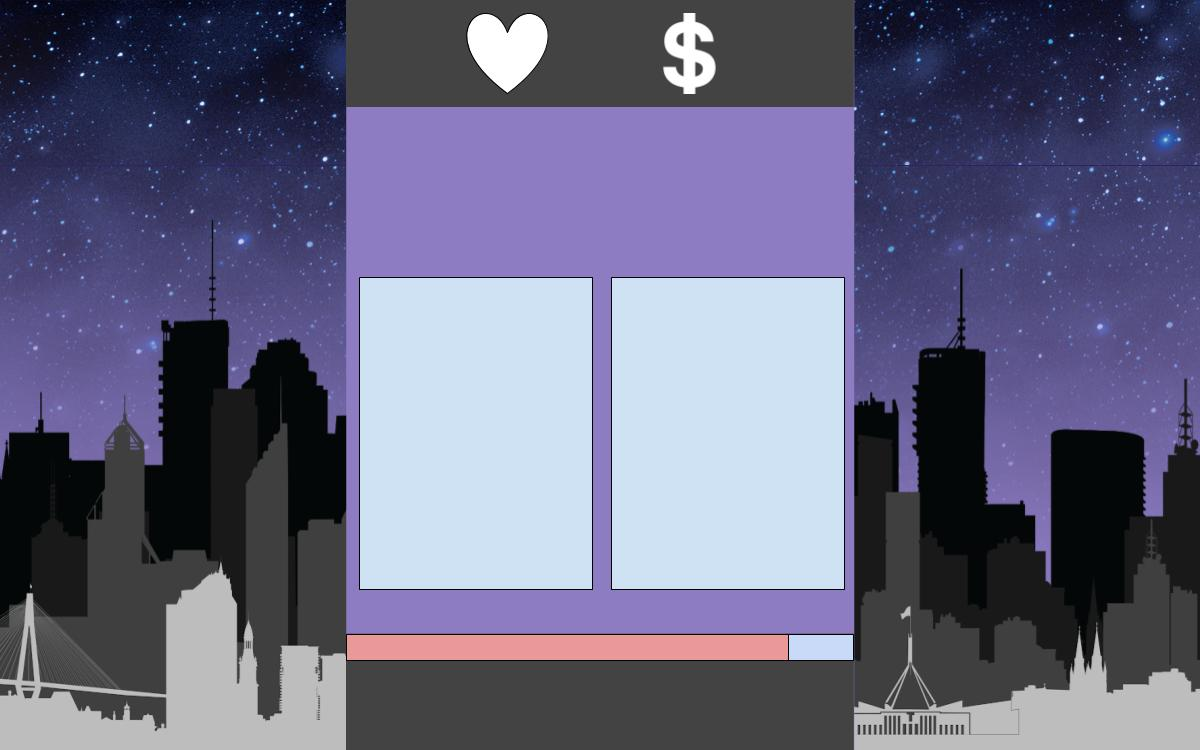
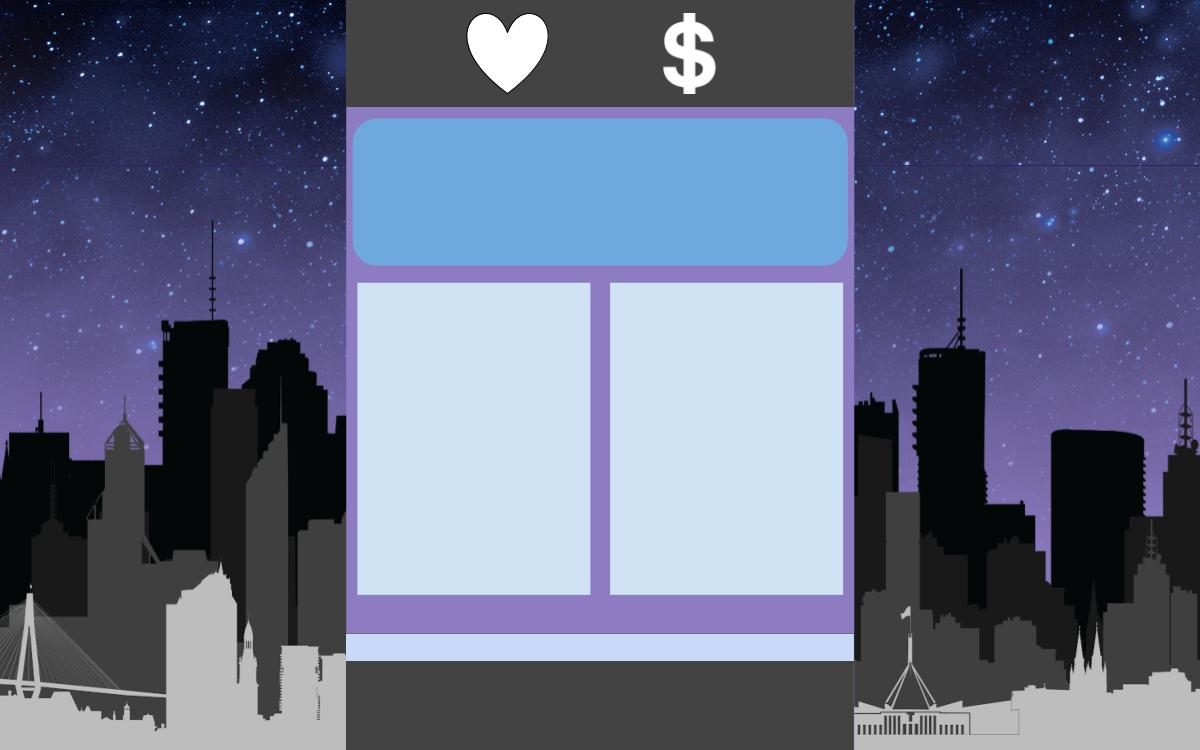
HEWMATT IS SLACKING

Changed region(s): [[0.2775, 0.1533, 0.7092, 0.3987], [0.2775, 0.828, 0.6783, 0.8893], [0.2775, 0.7667, 0.7092, 0.7973]]

diff --git a/ISP/src/isp/tutorial.java b/ISP/src/isp/tutorial.java
@@ -13,6 +13,7 @@ import javafx.event.ActionEvent;
 import javafx.event.EventHandler;
 import javafx.scene.Scene;
 import javafx.scene.control.Button;
+import javafx.scene.control.Label;
 import javafx.scene.layout.StackPane;
 import javafx.stage.Stage;
 import javafx.scene.image.Image;  
@@ -25,6 +26,7 @@ import javafx.scene.layout.Pane;
  * @author astro 
  */
 public class Tutorial {
+    public static int idx = 0;
     public static void run(Stage window){
         // tutorial scene
         Pane root2 = new Pane();
@@ -32,8 +34,32 @@ public class Tutorial {
         root2.getChildren().add(new ImageView(bg));
         ISP.s2 = new Scene(root2, 1200, 750);
         
-//        window.setTitle("Covid Dilemma");
-//        window.setScene(ISP.s2);
-//        window.show();
+        
+        Label quest = new Label(ISP.TutEvents.get(idx).question);
+        Button option1 = new Button(ISP.TutEvents.get(idx).answer1);
+        Button option2 = new Button(ISP.TutEvents.get(idx).answer2);
+        quest.relocate(200, 100);
+        option1.relocate(400, 200);
+        option2.relocate(600, 500);
+        root2.getChildren().add(quest);
+        root2.getChildren().add(option1);
+        root2.getChildren().add(option2);
+        
+        Button b = new Button("Button");
+        root2.getChildren().add(b);
+        b.setOnAction(actionEvent -> window.setScene(ISP.s0));
+        option1.setOnAction(actionEvent -> {
+            idx++;
+            Label questtmp = new Label(ISP.TutEvents.get(idx).question);
+            Button option1tmp = new Button(ISP.TutEvents.get(idx).answer1);
+            Button option2tmp = new Button(ISP.TutEvents.get(idx).answer2);
+            questtmp.relocate(200, 100);
+            option1tmp.relocate(400, 200);
+            option2tmp.relocate(600, 500);
+            root2.getChildren().add(questtmp);
+            root2.getChildren().add(option1tmp);
+            root2.getChildren().add(option2tmp);
+        });
+        option2.setOnAction(actionEvent -> idx++);
     }
 }

diff --git a/ISP/src/isp/TutorialEvents.java b/ISP/src/isp/TutorialEvents.java
@@ -1,0 +1,20 @@
+/*
+ * To change this license header, choose License Headers in Project Properties.
+ * To change this template file, choose Tools | Templates
+ * and open the template in the editor.
+ */
+package isp;
+
+import java.util.ArrayList;
+import java.util.Arrays;
+
+/**
+ *
+ * @author astro
+ */
+public class TutorialEvents {
+    public static void generateEvents(){
+        ISP.TutEvents.add(new Event(new int [] {}, new int [] {}, new int [] {0, 1}, new int [] {-10, 20}, "You get a job offer at Costco. Take it?", "Nah, I don't want to go out", "Sure, I need the money"));
+        ISP.TutEvents.add(new Event(new int [] {}, new int [] {}, new int [] {0, 1}, new int [] {20, -10}, "A yoga mat is on sale! Buy it?", "Hmm... I'm too lazy.", "Sure, I need exercise."));
+    }
+}

diff --git a/ISP/src/isp/Event.java b/ISP/src/isp/Event.java
@@ -6,9 +6,9 @@ package isp;
  */
 import java.util.*;
 public class Event {
-    ArrayList<Integer> factor1, amount1, factor2, amount2;
+    int [] factor1, amount1, factor2, amount2;
     String question, answer1, answer2;
-    public Event(ArrayList<Integer> factor1, ArrayList<Integer> amount1,ArrayList<Integer> factor2, ArrayList<Integer> amount2, String question, String answer1, String answer2){
+    public Event(int [] factor1, int [] amount1, int [] factor2, int [] amount2, String question, String answer1, String answer2){
         this.factor1 = factor1;
         this.amount1 = amount1;
         this.factor2 = factor2;

diff --git a/ISP/src/isp/ISP.java b/ISP/src/isp/ISP.java
@@ -5,7 +5,7 @@
  */
 package isp;
 
-import java.util.Timer;
+import java.util.*;
 import java.util.TimerTask;
 import java.util.concurrent.TimeUnit;
 import javafx.application.Application;
@@ -26,8 +26,10 @@ import javafx.scene.layout.Pane;
 public class ISP extends Application {
     
     static Scene s0, s1, s2;
+    public static ArrayList<Event> TutEvents = new ArrayList<Event>();
     @Override
     public void start(Stage primaryStage) throws Exception{
+        TutorialEvents.generateEvents();
         Tutorial.run(primaryStage);
         MainMenu.run(primaryStage);
         
